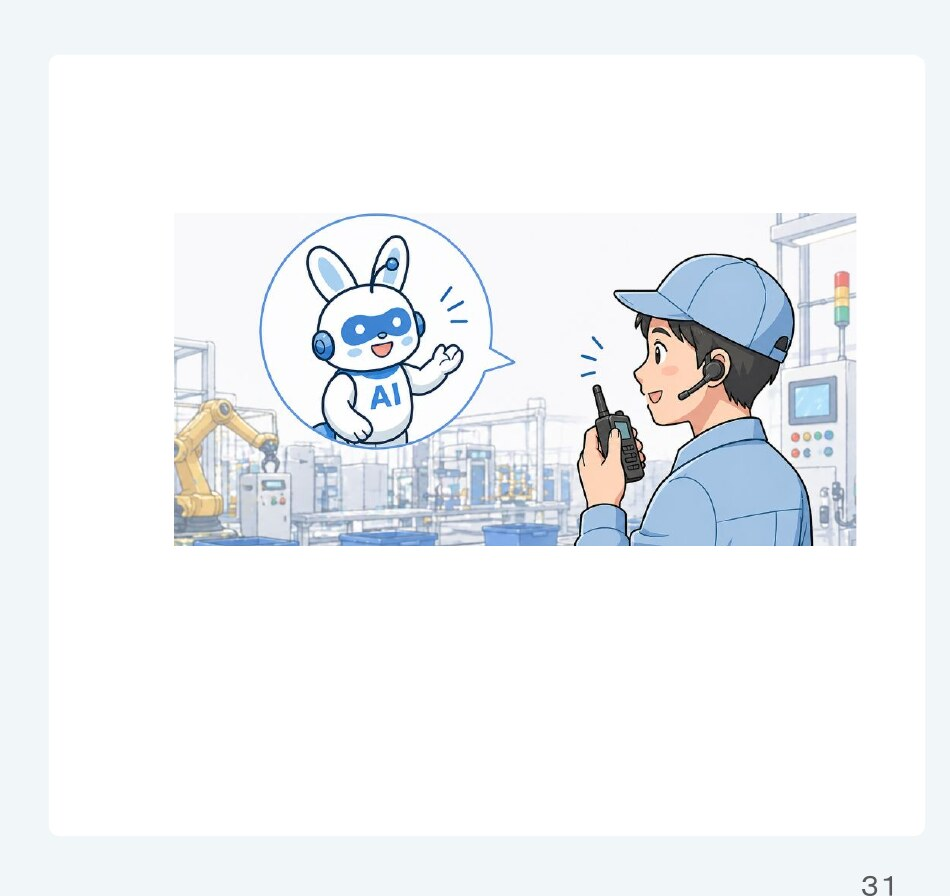
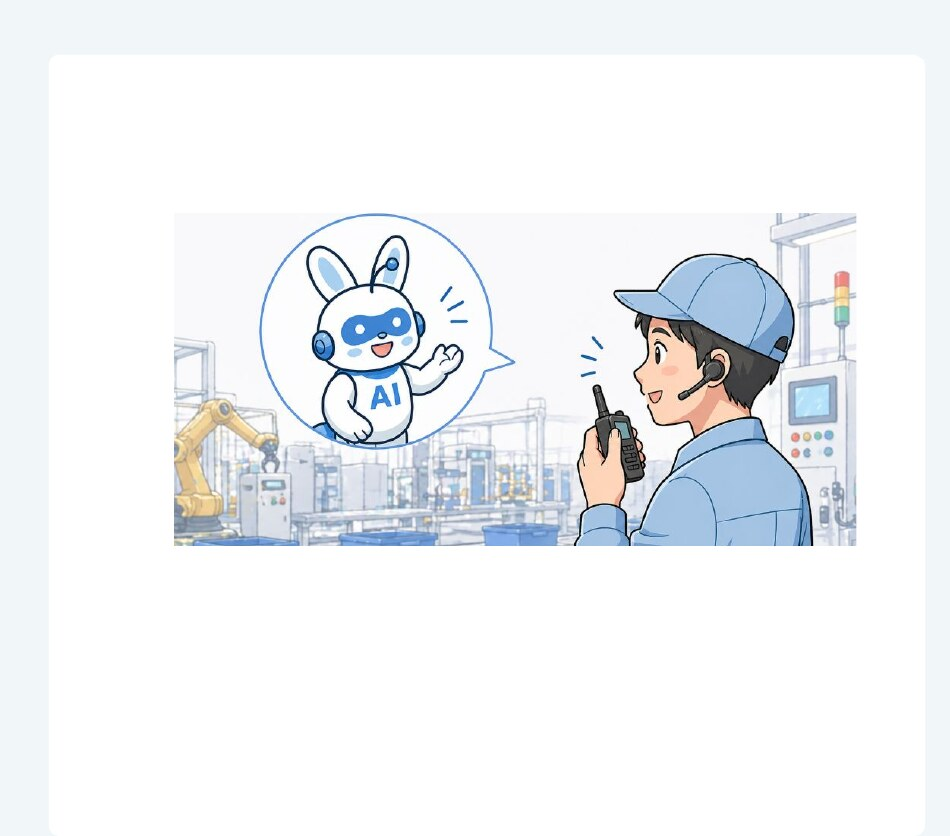
Tighten image crop (remove page numbers) + footer adjustments
- 機能詳細ページの画像クロップ高を 1050 → 970 に縮小し、スライド
  ページ番号 (13, 28 等) が映り込まないよう調整
- 全 20 枚の JPG を再生成 (160 DPI → 950x970+780+130 → trim → 1100px)

- フッター: 「主な機能」の下に「機能詳細」リンクを追加し
  features.html へ誘導
- index.html フッター: <ul class="footer-company"> を div + <p> に
  書き直し
- features.html フッター: COMPANY を一番右に配置 (CONTACT と入れ替え)
  + COMPANY を div + <p> 構造に
- .footer-company p の CSS を追加 (li と同じ視覚スタイル)
- style.css?v=39 にバンプ

https://claude.ai/code/session_01VvpNzxcfpMxrdihR2yd2i8

Changed region(s): [[0.1832, 0.2177, 0.9158, 0.6531], [0.8853, 0.9641, 0.9463, 1.0]]

diff --git a/features.html b/features.html
@@ -8,7 +8,7 @@
   <link rel="preconnect" href="https://fonts.googleapis.com">
   <link rel="preconnect" href="https://fonts.gstatic.com" crossorigin>
   <link href="https://fonts.googleapis.com/css2?family=Noto+Sans+JP:wght@400;500;700;800&family=Space+Grotesk:wght@500;600;700&display=swap" rel="stylesheet">
-  <link rel="stylesheet" href="style.css?v=38">
+  <link rel="stylesheet" href="style.css?v=39">
 </head>
 <body>
 
@@ -439,15 +439,9 @@
             <ul>
               <li><a href="index.html#issues">課題</a></li>
               <li><a href="index.html#reasons">選ばれる理由</a></li>
-              <li><a href="features.html">主な機能</a></li>
+              <li><a href="index.html#features">主な機能</a></li>
+              <li><a href="features.html">機能詳細</a></li>
               <li><a href="index.html#flow">トライアルの流れ</a></li>
-            </ul>
-          </div>
-          <div class="footer-col">
-            <h4>COMPANY</h4>
-            <ul class="footer-company">
-              <li>株式会社カイゼンテクノロジ</li>
-              <li>システム開発・運営</li>
             </ul>
           </div>
           <div class="footer-col">
@@ -456,6 +450,13 @@
               <li><a href="index.html#contact">お問い合わせ</a></li>
               <li><a href="index.html#contact">デモ体験</a></li>
             </ul>
+          </div>
+          <div class="footer-col">
+            <h4>COMPANY</h4>
+            <div class="footer-company">
+              <p>株式会社カイゼンテクノロジ</p>
+              <p>システム開発・運営</p>
+            </div>
           </div>
         </div>
       </div>

diff --git a/index.html b/index.html
@@ -8,7 +8,7 @@
   <link rel="preconnect" href="https://fonts.googleapis.com">
   <link rel="preconnect" href="https://fonts.gstatic.com" crossorigin>
   <link href="https://fonts.googleapis.com/css2?family=Noto+Sans+JP:wght@400;500;700;800&family=Space+Grotesk:wght@500;600;700&display=swap" rel="stylesheet">
-  <link rel="stylesheet" href="style.css?v=38">
+  <link rel="stylesheet" href="style.css?v=39">
 </head>
 <body>
 
@@ -1129,6 +1129,7 @@
               <li><a href="#reasons">選ばれる理由</a></li>
               <li><a href="#benefits">できること</a></li>
               <li><a href="#features">主な機能</a></li>
+              <li><a href="features.html">機能詳細</a></li>
               <li><a href="#support">サポート体制</a></li>
             </ul>
           </div>
@@ -1143,10 +1144,10 @@
           </div>
           <div class="footer-col">
             <h4>運営会社</h4>
-            <ul class="footer-company">
-              <li>株式会社カイゼンテクノロジ</li>
-              <li class="footer-company-note">電話業務AIエージェント xVoice 提供</li>
-            </ul>
+            <div class="footer-company">
+              <p>株式会社カイゼンテクノロジ</p>
+              <p class="footer-company-note">電話業務AIエージェント xVoice 提供</p>
+            </div>
           </div>
         </div>
       </div>

diff --git a/style.css b/style.css
@@ -2565,11 +2565,15 @@ p { margin: 0; }
 .footer-col a:hover { color: var(--color-cyan); }
 
 /* Footer company info — intentionally subdued */
+.footer-company p,
 .footer-company li {
   font-size: 14px;
   color: rgba(255, 255, 255, .6);
   line-height: 1.75;
+  margin-bottom: 4px;
 }
+.footer-company p:last-child,
+.footer-company li:last-child { margin-bottom: 0; }
 .footer-company-note {
   font-size: 11.5px !important;
   color: rgba(255, 255, 255, .35) !important;
